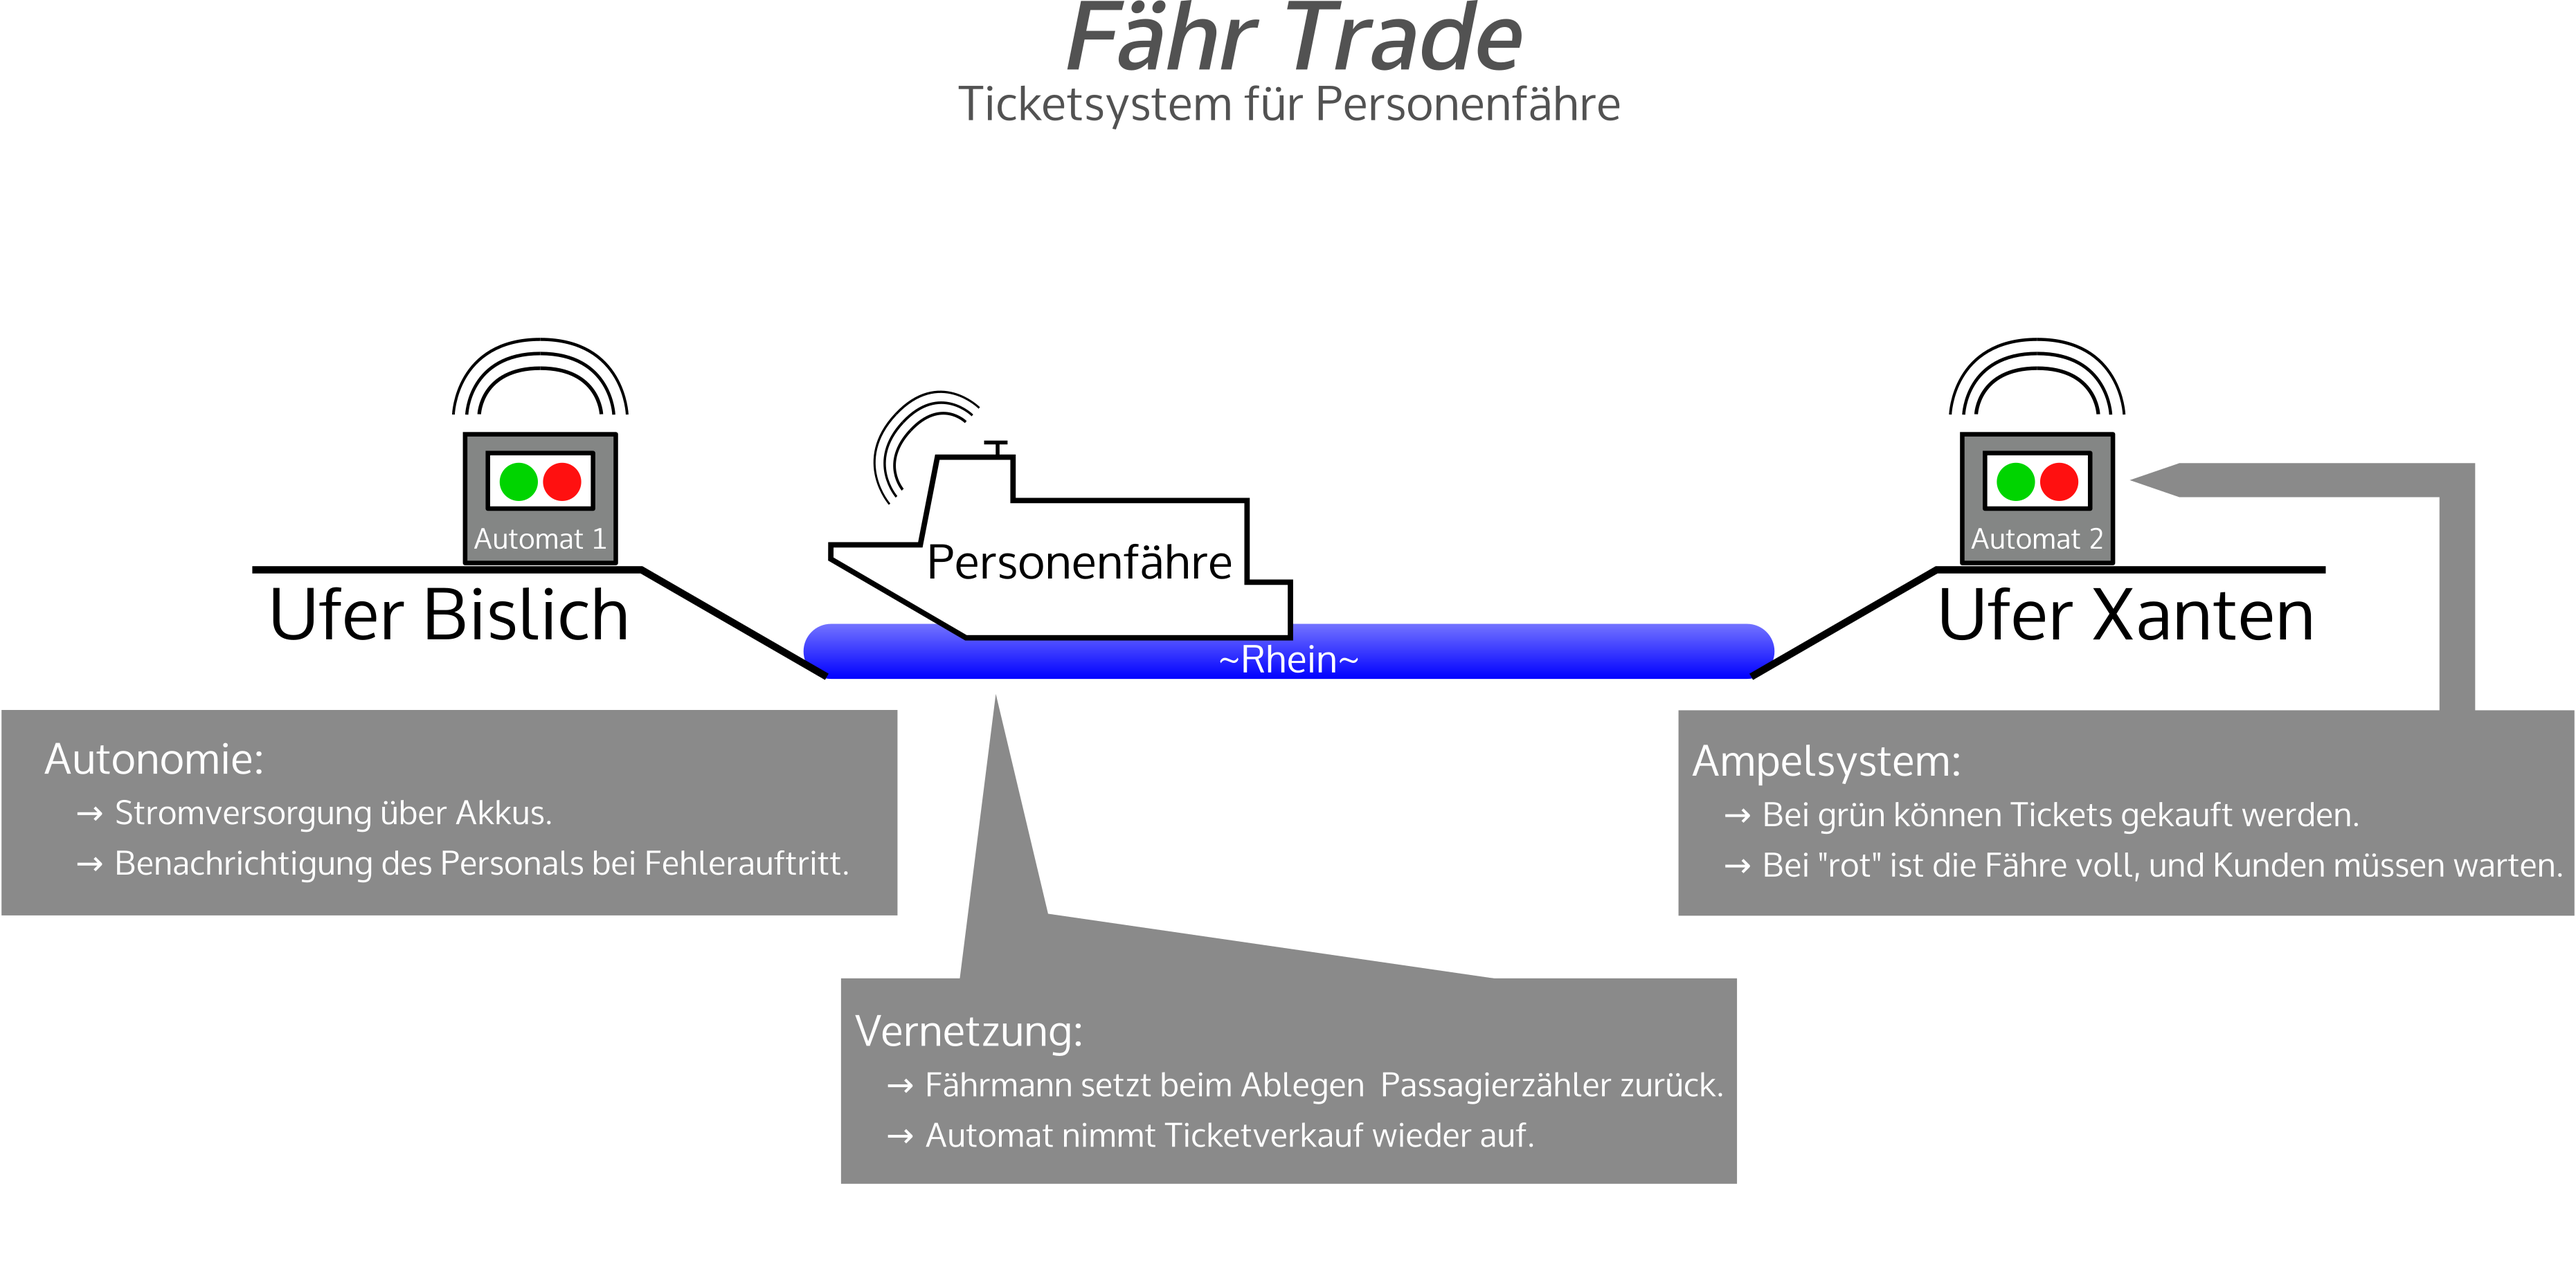
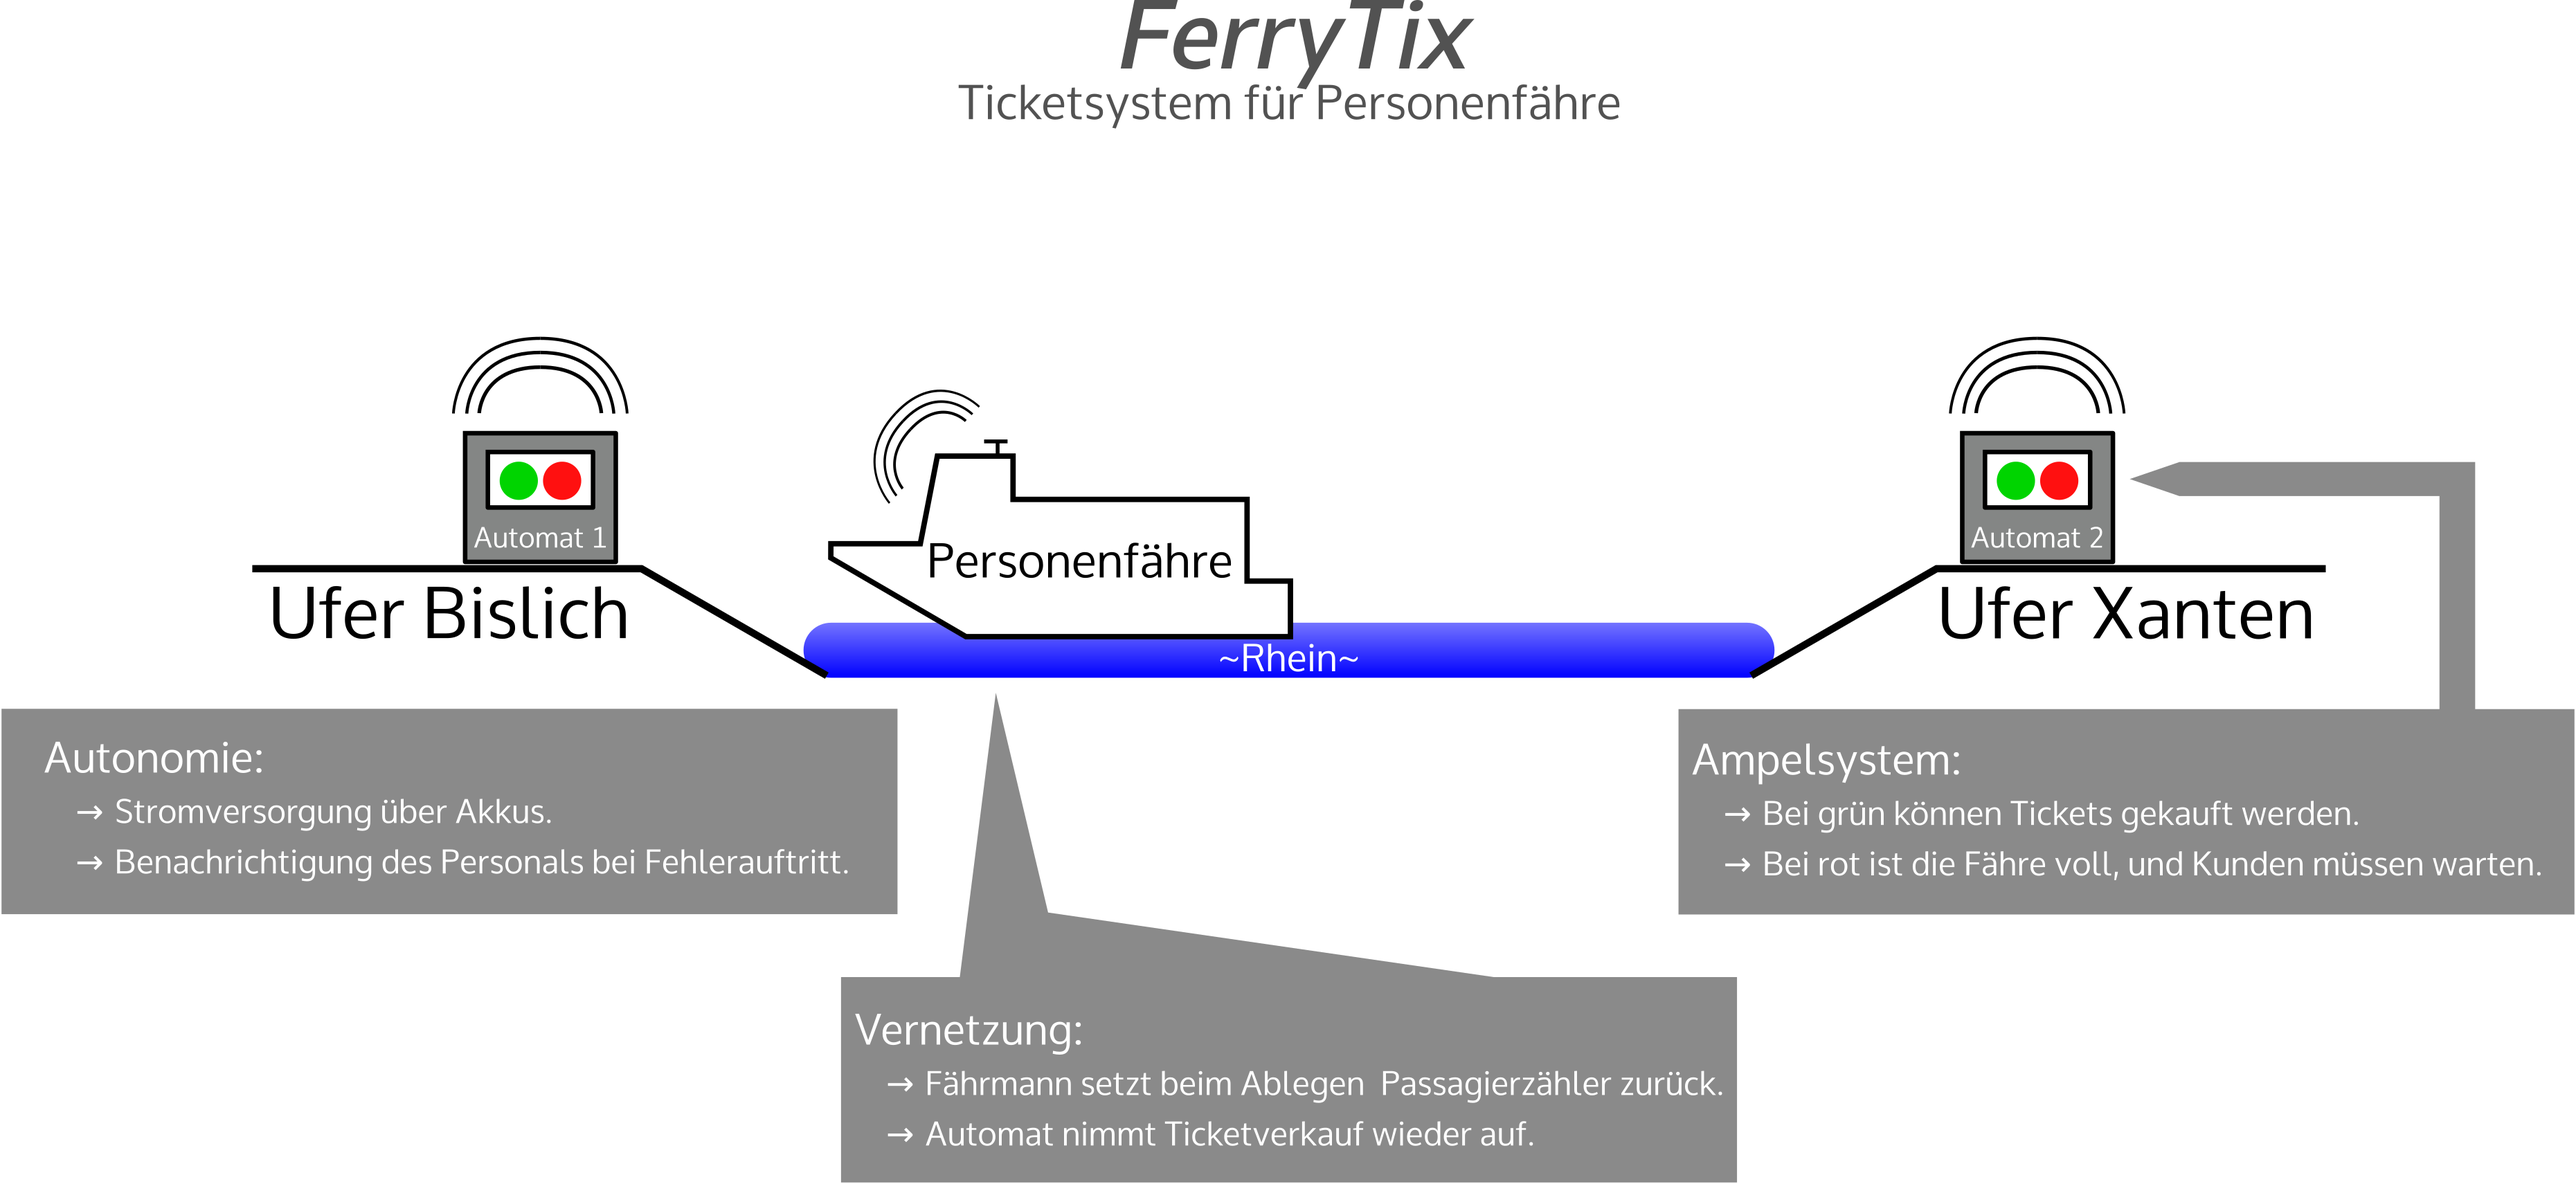
change name

Changed region(s): [[0.0, 0.2478, 1.0, 1.0], [0.3741, 0.0, 0.6235, 0.1239]]

diff --git a/README.md b/README.md
@@ -1,4 +1,4 @@
-# Faehr_Trade
+# FerryTix
 Vending Machine and Ticketing System for Passenger Ferry.
 
 Concept:
